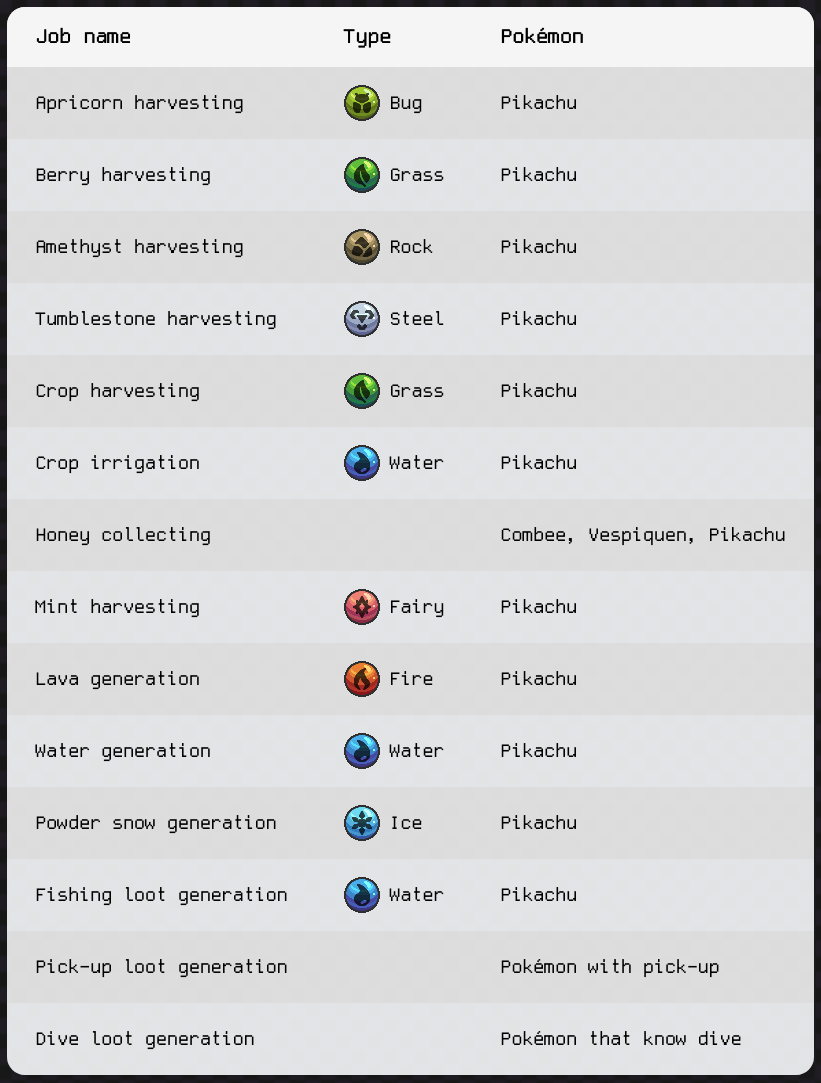
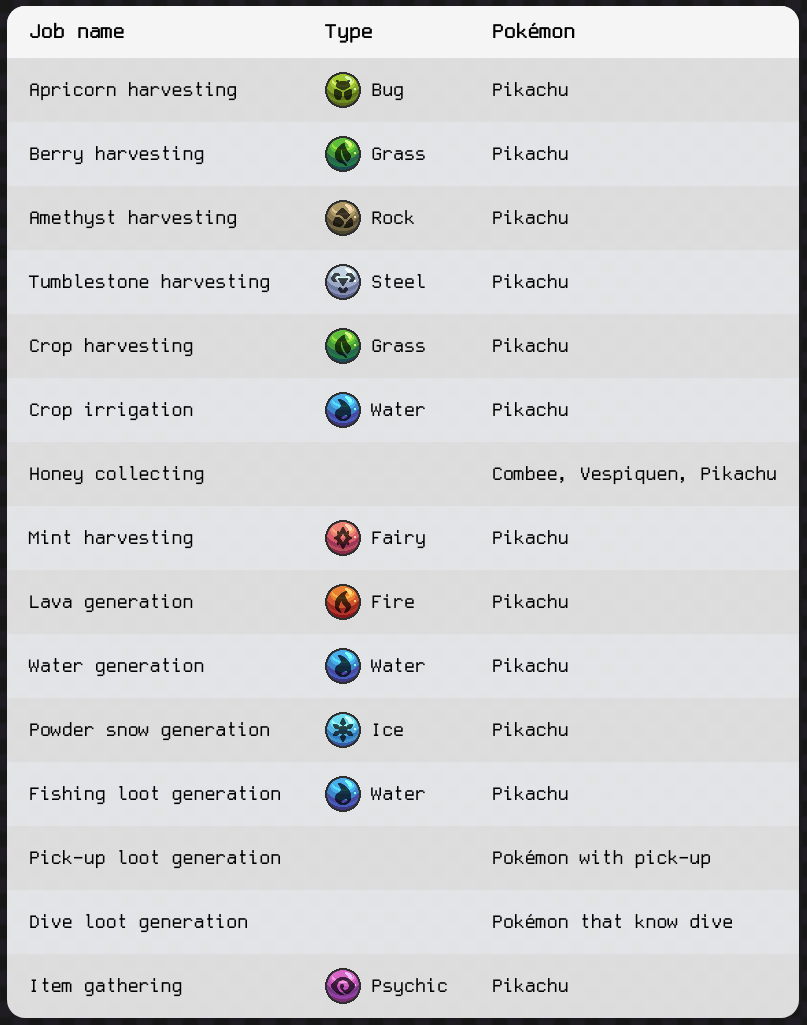
Implement picking up ground items

diff --git a/common/src/main/kotlin/accieo/cobbleworkers/jobs/GroundItemGatherer.kt b/common/src/main/kotlin/accieo/cobbleworkers/jobs/GroundItemGatherer.kt
@@ -1,0 +1,163 @@
+/*
+ * Copyright (C) 2025 Accieo
+ *
+ * This Source Code Form is subject to the terms of the Mozilla Public
+ * License, v. 2.0. If a copy of the MPL was not distributed with this
+ * file, You can obtain one at https://mozilla.org/MPL/2.0/.
+ */
+
+package accieo.cobbleworkers.jobs
+
+import accieo.cobbleworkers.config.CobbleworkersConfigHolder
+import accieo.cobbleworkers.interfaces.Worker
+import accieo.cobbleworkers.utilities.CobbleworkersInventoryUtils
+import accieo.cobbleworkers.utilities.CobbleworkersNavigationUtils
+import accieo.cobbleworkers.utilities.CobbleworkersTypeUtils
+import com.cobblemon.mod.common.entity.pokemon.PokemonEntity
+import net.minecraft.block.Block
+import net.minecraft.entity.ItemEntity
+import net.minecraft.inventory.Inventory
+import net.minecraft.item.ItemStack
+import net.minecraft.util.math.BlockPos
+import net.minecraft.util.math.Box
+import net.minecraft.world.World
+import java.util.UUID
+import kotlin.text.lowercase
+
+object GroundItemGatherer : Worker {
+    private val heldItemsByPokemon = mutableMapOf<UUID, List<ItemStack>>()
+    private val failedDepositLocations = mutableMapOf<UUID, MutableSet<BlockPos>>()
+    private val config = CobbleworkersConfigHolder.config.groundItemGathering
+    private val searchRadius get() = config.searchRadius
+    private val searchHeight get() = config.searchHeight
+
+    /**
+     * Determines if Pokémon is eligible to be a worker.
+     * NOTE: This is used to prevent running the tick method unnecessarily.
+     */
+    override fun shouldRun(pokemonEntity: PokemonEntity): Boolean {
+        if (!config.groundItemGatheringEnabled) return false
+
+        return  CobbleworkersTypeUtils.isAllowedByType(config.typeGathersGroundItems, pokemonEntity) || isDesignatedGatherer(pokemonEntity)
+    }
+
+    /**
+     * Main logic loop for the worker, executed each tick.
+     * NOTE: Origin refers to the pasture's block position.
+     */
+    override fun tick(world: World, origin: BlockPos, pokemonEntity: PokemonEntity) {
+        val heldItems = heldItemsByPokemon[pokemonEntity.uuid]
+
+        if (heldItems.isNullOrEmpty()) {
+            failedDepositLocations.remove(pokemonEntity.uuid)
+            handleGathering(world, origin, pokemonEntity)
+        } else {
+            handleDepositing(world, origin, pokemonEntity, heldItems)
+        }
+    }
+
+    /**
+     * Handles logic for finding and depositing items into an inventory when the Pokémon is holding items.
+     * It will try multiple inventories nearby iteratively
+     */
+    private fun handleDepositing(world: World, origin: BlockPos, pokemonEntity: PokemonEntity, itemsToDeposit: List<ItemStack>) {
+        val triedPositions = failedDepositLocations.getOrPut(pokemonEntity.uuid) { mutableSetOf() }
+        val inventoryPos = CobbleworkersInventoryUtils.findClosestInventory(world, origin,
+            searchRadius,
+            searchHeight, triedPositions)
+
+        if (inventoryPos == null) {
+            // No (untried) inventories found, so we just drop the remaining items and reset.
+            itemsToDeposit.forEach { stack -> Block.dropStack(world, pokemonEntity.blockPos, stack) }
+            heldItemsByPokemon.remove(pokemonEntity.uuid)
+            failedDepositLocations.remove(pokemonEntity.uuid)
+            return
+        }
+
+        if (CobbleworkersNavigationUtils.isPokemonAtPosition(pokemonEntity, inventoryPos, 2.0)) {
+            val inventory = world.getBlockEntity(inventoryPos) as? Inventory
+            if (inventory == null) {
+                // Block not an inventory, mark it as failed
+                triedPositions.add(inventoryPos)
+                return
+            }
+
+            val remainingDrops = CobbleworkersInventoryUtils.insertStacks(inventory, itemsToDeposit)
+
+            if (remainingDrops.size == itemsToDeposit.size) {
+                //  No change in stack size, so mark as failed
+                triedPositions.add(inventoryPos)
+            }
+
+            if (remainingDrops.isNotEmpty()) {
+                heldItemsByPokemon[pokemonEntity.uuid] = remainingDrops
+            } else {
+                heldItemsByPokemon.remove(pokemonEntity.uuid)
+                failedDepositLocations.remove(pokemonEntity.uuid)
+                pokemonEntity.navigation.stop()
+            }
+        } else {
+            CobbleworkersNavigationUtils.navigateTo(pokemonEntity, inventoryPos)
+        }
+    }
+
+    /**
+     * Handles logic for finding and gathering an item on the ground.
+     */
+    private fun handleGathering(world: World, origin: BlockPos, pokemonEntity: PokemonEntity) {
+        val pokemonId = pokemonEntity.uuid
+        val (closestItemPos, closestItem) = findClosestItem(world, origin, pokemonEntity) ?: return
+
+        val currentTarget = CobbleworkersNavigationUtils.getTarget(pokemonId, world)
+
+        if (currentTarget == null) {
+            if (!CobbleworkersNavigationUtils.isTargeted(closestItemPos, world)) {
+                CobbleworkersNavigationUtils.claimTarget(pokemonId, closestItemPos, world)
+            }
+            return
+        }
+
+        if (currentTarget == closestItemPos) {
+            CobbleworkersNavigationUtils.navigateTo(pokemonEntity, closestItemPos)
+        }
+
+        if (CobbleworkersNavigationUtils.isPokemonAtPosition(pokemonEntity, currentTarget)) {
+            val stack = closestItem.stack.copy()
+            closestItem.discard()
+            heldItemsByPokemon[pokemonId] = listOf(stack)
+            CobbleworkersNavigationUtils.releaseTarget(pokemonId)
+        }
+    }
+
+    /**
+     * Finds the closest item on the ground and returns its position and entity.
+     */
+    private fun findClosestItem(world: World, origin: BlockPos, pokemonEntity: PokemonEntity): Pair<BlockPos, ItemEntity>? {
+        var closestItem: ItemEntity? = null
+        var closestDistance = Double.MAX_VALUE
+
+        val searchArea = Box(origin).expand(searchRadius.toDouble(), searchHeight.toDouble(), searchRadius.toDouble())
+        val items = world.getEntitiesByClass(ItemEntity::class.java, searchArea) { true }
+
+        for (item in items) {
+            if (item.isOnGround) {
+                val distanceSq = item.squaredDistanceTo(pokemonEntity.pos)
+                if (distanceSq < closestDistance) {
+                    closestDistance = distanceSq
+                    closestItem = item
+                }
+            }
+        }
+
+        return closestItem?.let { it.blockPos to it }
+    }
+
+    /**
+     * Checks if the Pokémon qualifies as a gatherer because its species is
+     * explicitly listed in the config.
+     */
+    private fun isDesignatedGatherer(pokemonEntity: PokemonEntity): Boolean {
+        val speciesName = pokemonEntity.pokemon.species.translatedName.string.lowercase()
+        return config.groundItemGatherers.any { it.lowercase() == speciesName }
+    }
+}

diff --git a/common/src/main/kotlin/accieo/cobbleworkers/config/CobbleworkersConfig.kt b/common/src/main/kotlin/accieo/cobbleworkers/config/CobbleworkersConfig.kt
@@ -57,6 +57,9 @@ class CobbleworkersConfig : ConfigData {
     @ConfigEntry.Gui.CollapsibleObject
     var diving = DivingGroup()
 
+    @ConfigEntry.Gui.CollapsibleObject
+    var groundItemGathering = GroundItemGathererGroup()
+
     class ApricornGroup {
         var apricornHarvestersEnabled = true
         var apricornHarvesters: MutableList<String> = mutableListOf("pikachu")
@@ -261,7 +264,19 @@ class CobbleworkersConfig : ConfigData {
             "cobblemon:shipwreck_coves/gilded_chests/lesser_treasure",
         )
 
+        /* Dangerous settings: It can highly impact server performance! */
+        @ConfigEntry.BoundedDiscrete(min = 1, max = 10)
+        var searchRadius = 8
+        @ConfigEntry.BoundedDiscrete(min = 1, max = 8)
+        var searchHeight = 5
+    }
+
+    class GroundItemGathererGroup {
+        var groundItemGatheringEnabled = true
+        var groundItemGatherers: MutableList<String> = mutableListOf("pikachu")
+
         @ConfigEntry.Gui.EnumHandler(option = ConfigEntry.Gui.EnumHandler.EnumDisplayOption.DROPDOWN)
+        var typeGathersGroundItems: CobbleworkersConfigPokemonType = CobbleworkersConfigPokemonType.PSYCHIC
 
         /* Dangerous settings: It can highly impact server performance! */
         @ConfigEntry.BoundedDiscrete(min = 1, max = 10)

diff --git a/common/src/main/resources/assets/cobbleworkers/infographic/index.html b/common/src/main/resources/assets/cobbleworkers/infographic/index.html
@@ -27,7 +27,7 @@
 
 		th,
 		td {
-			padding: 18px 28px;
+			padding: 14px 22px;
 			text-align: left;
 			font-size: 1.2em;
 		}
@@ -138,6 +138,11 @@
 				<td>Dive loot generation</td>
 				<td class="type-cell"><span class="type-icon" data-type="N.A."></span></td>
 				<td>Pokémon that know dive</td>
+			</tr>
+			<tr>
+				<td>Item gathering</td>
+				<td class="type-cell"><span class="type-icon" data-type="Psychic"></span>Psychic</td>
+				<td>Pikachu</td>
 			</tr>
 		</tbody>
 	</table>

diff --git a/common/src/main/kotlin/accieo/cobbleworkers/jobs/WorkerDispatcher.kt b/common/src/main/kotlin/accieo/cobbleworkers/jobs/WorkerDispatcher.kt
@@ -29,7 +29,8 @@ object WorkerDispatcher {
         SnowGenerator,
         FishingLootGenerator,
         PickUpLooter,
-        DiveLooter
+        DiveLooter,
+        GroundItemGatherer
     )
 
     fun tickAll(world: World, origin: BlockPos, pokemonEntity: PokemonEntity) {
